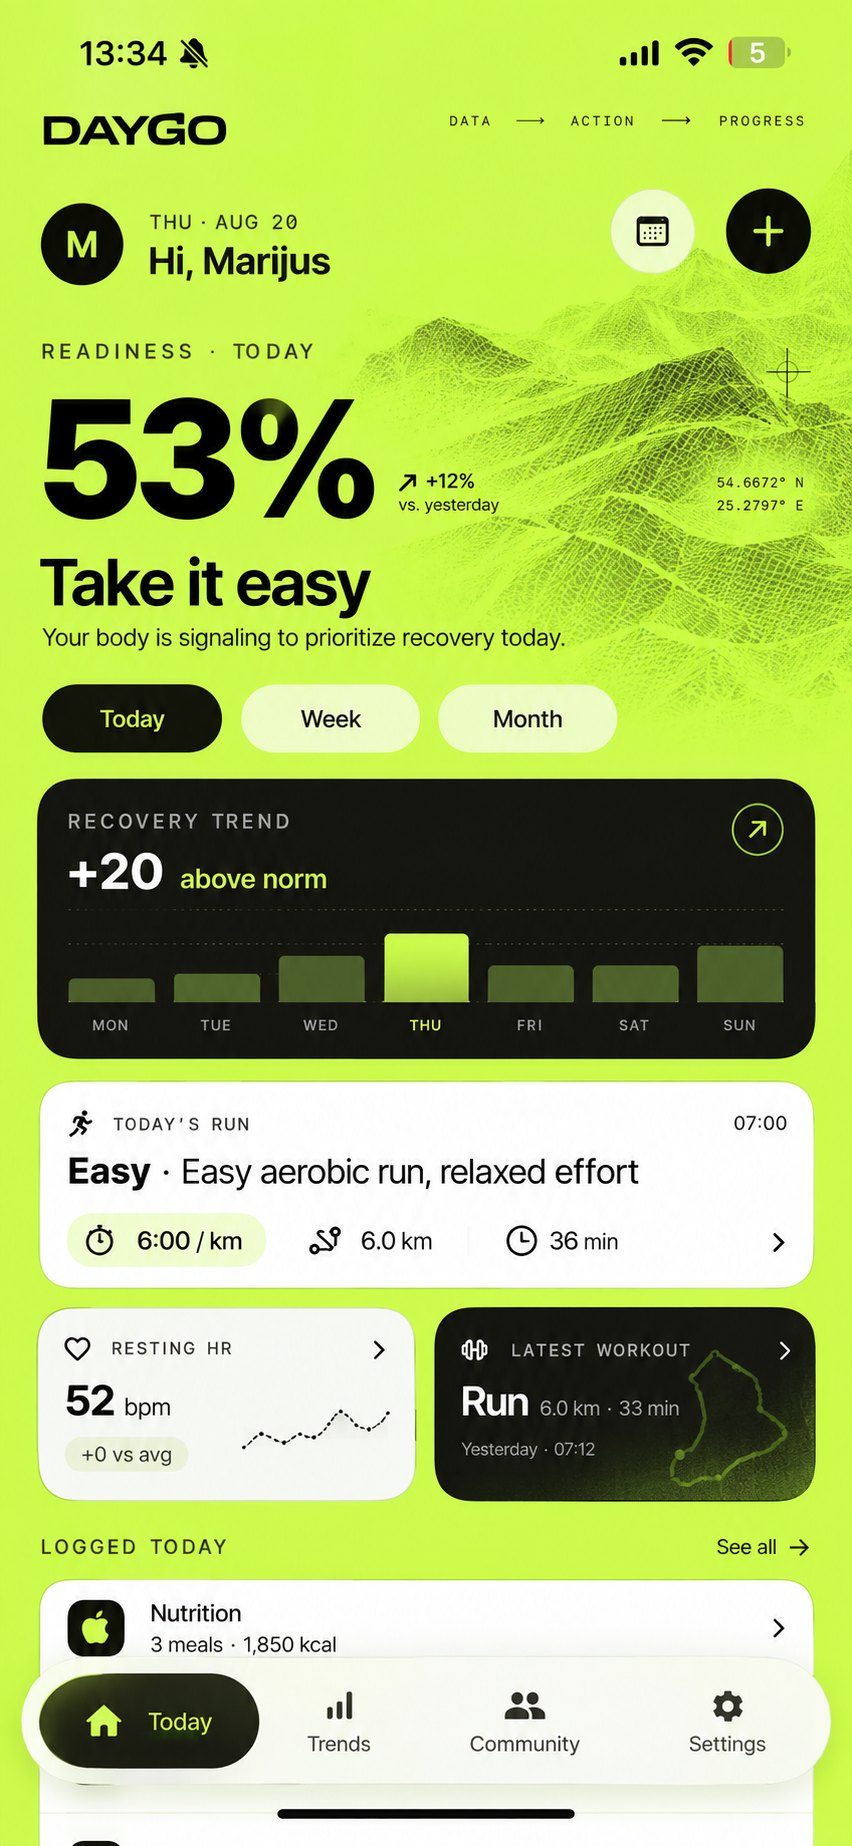
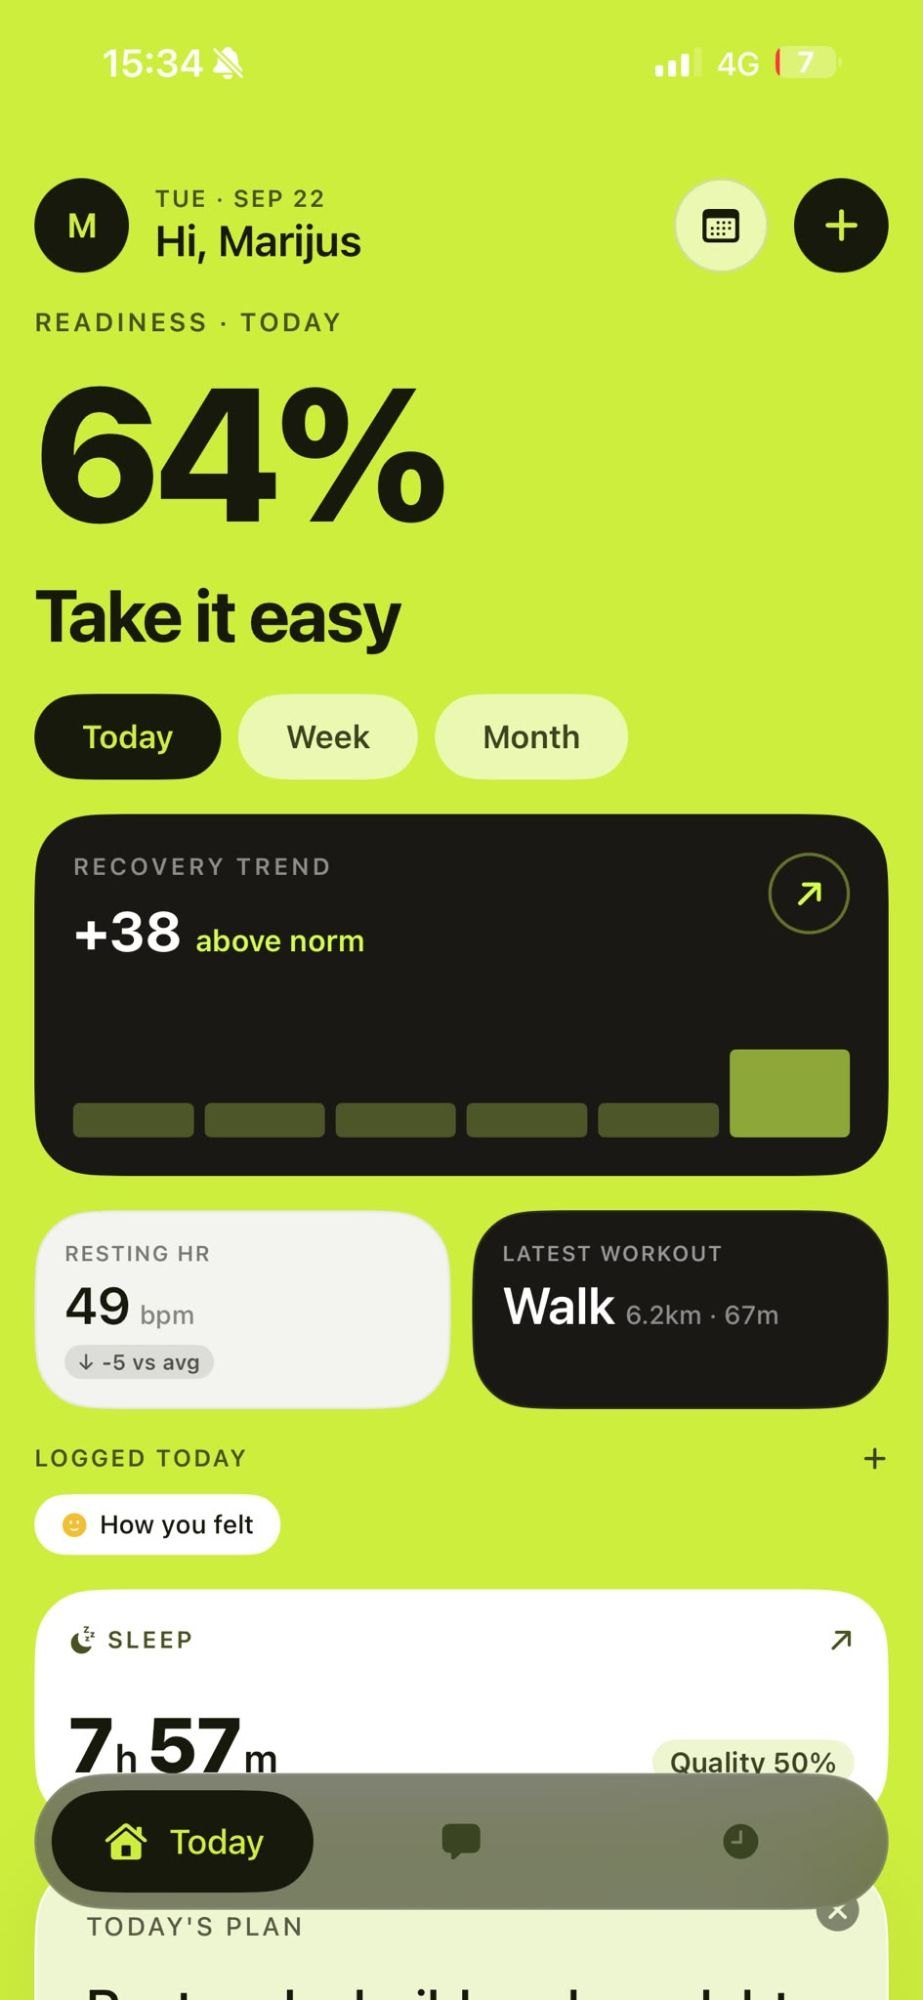
Replace the generated hero phone with a real app screenshot
The previous image was AI-generated and showed UI the app doesn't have,
including a Community tab. The homepage should show what people will
actually see when they open Daygo.

diff --git a/app/page.tsx b/app/page.tsx
@@ -110,9 +110,9 @@ function Hero() {
             <div className="relative overflow-hidden rounded-[2.25rem]">
               <Image
                 src="/redesign/app-today.jpg"
-                alt="The Daygo Today screen, showing readiness, recovery trend and the day's run"
-                width={852}
-                height={1846}
+                alt="The Daygo Today screen, showing readiness, recovery trend, resting heart rate and sleep"
+                width={923}
+                height={2000}
                 sizes="(max-width: 768px) 80vw, 290px"
                 priority
                 className="w-full"
